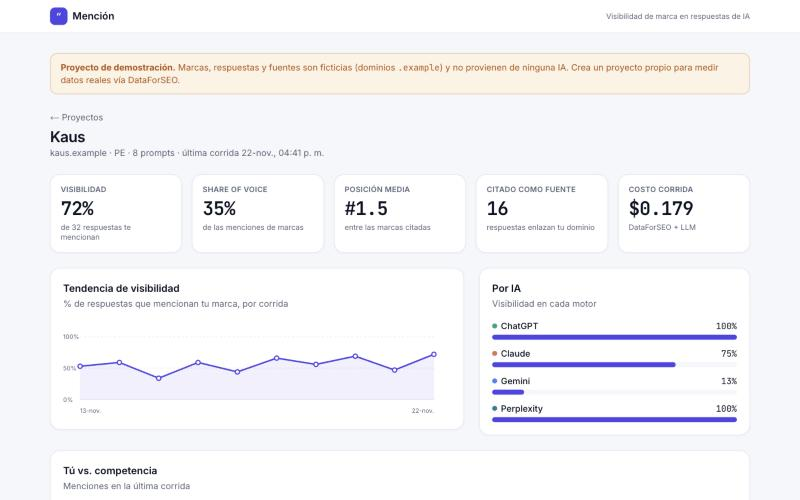
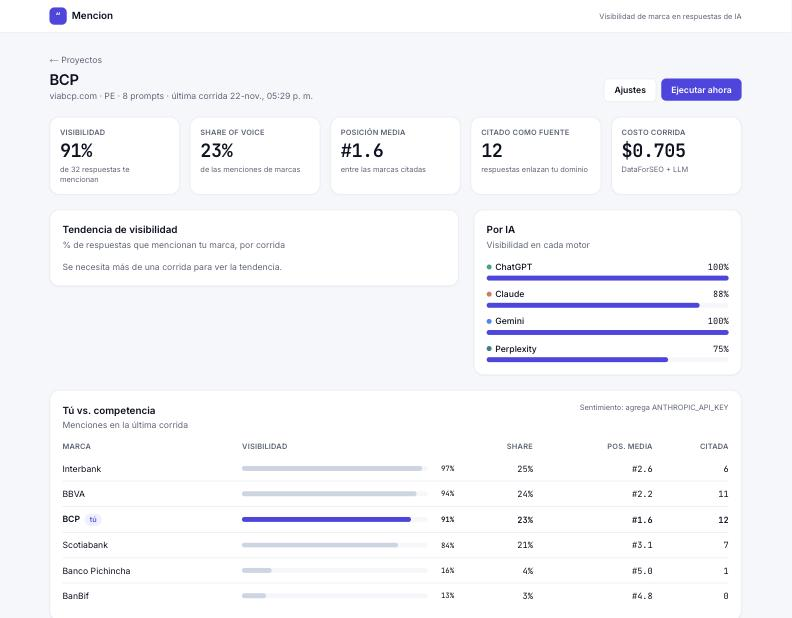
Dominio menciones.org, ejemplo con bancos y fuentes sin www duplicado
- Dominio menciones.org en sitio, README y guía de despliegue
- Captura con medición real: BCP frente a Interbank, BBVA, Scotiabank, BanBif y Pichincha
- Demo y placeholders sin Kaus (marca ficticia Nutrilia en la demo opcional)
- Dominios de fuentes normalizados sin www

diff --git a/src/components/ProjectForm.tsx b/src/components/ProjectForm.tsx
@@ -23,15 +23,15 @@ export function ProjectForm({
       {project ? <input type="hidden" name="id" value={project.id} /> : null}
       <label className="label">
         Marca
-        <input name="name" required maxLength={80} defaultValue={project?.name} placeholder="Kaus" className="input mt-1 font-normal normal-case tracking-normal" />
+        <input name="name" required maxLength={80} defaultValue={project?.name} placeholder="BCP" className="input mt-1 font-normal normal-case tracking-normal" />
       </label>
       <label className="label">
         Dominio
-        <input name="domain" maxLength={120} defaultValue={project?.domain} placeholder="kaus.pe" className="input mt-1 font-normal normal-case tracking-normal" />
+        <input name="domain" maxLength={120} defaultValue={project?.domain} placeholder="viabcp.com" className="input mt-1 font-normal normal-case tracking-normal" />
       </label>
       <label className="label sm:col-span-2">
         Otras formas de escribir la marca (separadas por coma)
-        <input name="aliases" defaultValue={project ? parseJson<string[]>(project.aliases, []).join(", ") : ""} placeholder="Kaus App, Kaus Coach" className="input mt-1 font-normal normal-case tracking-normal" />
+        <input name="aliases" defaultValue={project ? parseJson<string[]>(project.aliases, []).join(", ") : ""} placeholder="Banco de Crédito del Perú, Banco de Credito" className="input mt-1 font-normal normal-case tracking-normal" />
       </label>
       <label className="label">
         País de búsqueda
@@ -49,11 +49,11 @@ export function ProjectForm({
       </label>
       <label className="label sm:col-span-2">
         Competidores — uno por línea: <span className="font-mono normal-case">Marca | dominio.com | alias</span>
-        <textarea name="competitors" rows={4} defaultValue={project ? competitorLines(competitorsOf(project)) : ""} placeholder={"MyFitnessPal | myfitnesspal.com\nYazio | yazio.com"} className="input mt-1 font-mono text-xs font-normal normal-case tracking-normal" />
+        <textarea name="competitors" rows={4} defaultValue={project ? competitorLines(competitorsOf(project)) : ""} placeholder={"Interbank | interbank.pe\nBBVA | bbva.pe | BBVA Perú"} className="input mt-1 font-mono text-xs font-normal normal-case tracking-normal" />
       </label>
       <label className="label sm:col-span-2">
         Prompts a seguir — uno por línea (lo que tus clientes le preguntan a la IA)
-        <textarea name="prompts" rows={7} required defaultValue={prompts?.filter((p) => p.active).map((p) => p.text).join("\n")} placeholder={"¿Cuál es la mejor app para bajar de peso en Perú?\nApps con coach de nutrición con IA en español"} className="input mt-1 text-sm font-normal normal-case tracking-normal" />
+        <textarea name="prompts" rows={7} required defaultValue={prompts?.filter((p) => p.active).map((p) => p.text).join("\n")} placeholder={"¿Cuál es el mejor banco del Perú?\n¿Qué banco tiene la mejor app móvil en Perú?"} className="input mt-1 text-sm font-normal normal-case tracking-normal" />
       </label>
       <div className="flex items-center gap-3 sm:col-span-2">
         <button className="btn-primary">{submitLabel}</button>

diff --git a/prisma/seed.ts b/prisma/seed.ts
@@ -18,7 +18,7 @@ let seed = 42;
 const rand = () => ((seed = (seed * 1664525 + 1013904223) % 4294967296) / 4294967296);
 const pick = <T,>(xs: T[]) => xs[Math.floor(rand() * xs.length)];
 
-const own: Competitor = { name: "Kaus", domain: "kaus.example", aliases: ["Kaus App"] };
+const own: Competitor = { name: "Nutrilia", domain: "nutrilia.example", aliases: ["Nutrilia App"] };
 const competitors: Competitor[] = [
   { name: "Balanzia", domain: "balanzia.example", aliases: [] },
   { name: "FitLima", domain: "fitlima.example", aliases: ["Fit Lima"] },
@@ -38,10 +38,10 @@ const sourcePool = ["blog-salud.example", "revista-nutricion.example", "foro-fit
 
 // Probabilidad de que cada motor mencione cada marca (para que la demo cuente una historia)
 const bias: Record<string, Record<string, number>> = {
-  chatgpt: { Kaus: 0.55, Balanzia: 0.7, FitLima: 0.45, Vitalo: 0.3 },
-  claude: { Kaus: 0.4, Balanzia: 0.6, FitLima: 0.35, Vitalo: 0.25 },
-  gemini: { Kaus: 0.3, Balanzia: 0.75, FitLima: 0.5, Vitalo: 0.4 },
-  perplexity: { Kaus: 0.65, Balanzia: 0.55, FitLima: 0.3, Vitalo: 0.2 },
+  chatgpt: { Nutrilia: 0.55, Balanzia: 0.7, FitLima: 0.45, Vitalo: 0.3 },
+  claude: { Nutrilia: 0.4, Balanzia: 0.6, FitLima: 0.35, Vitalo: 0.25 },
+  gemini: { Nutrilia: 0.3, Balanzia: 0.75, FitLima: 0.5, Vitalo: 0.4 },
+  perplexity: { Nutrilia: 0.65, Balanzia: 0.55, FitLima: 0.3, Vitalo: 0.2 },
 };
 const phrases = {
   positive: ["destaca por su coach con IA que adapta el plan a comida local", "es muy recomendada por usuarios que buscan acompañamiento diario", "ofrece un seguimiento cercano y fácil de usar"],

diff --git a/src/lib/stats.ts b/src/lib/stats.ts
@@ -70,7 +70,7 @@ export async function projectDashboard(projectId: string) {
 
   // Dominios más citados como fuente
   const domainCount = new Map<string, number>();
-  for (const r of ok) for (const d of new Set(r.sources.map((s) => s.domain).filter(Boolean))) domainCount.set(d, (domainCount.get(d) ?? 0) + 1);
+  for (const r of ok) for (const d of new Set(r.sources.map((s) => s.domain.replace(/^www\./, "")).filter(Boolean))) domainCount.set(d, (domainCount.get(d) ?? 0) + 1);
   const topDomains = [...domainCount.entries()].sort((a, b) => b[1] - a[1]).slice(0, 10).map(([domain, count]) => ({ domain, count, share: pct(count, ok.length) }));
 
   // Tendencia: visibilidad propia por corrida terminada

diff --git a/src/app/layout.tsx b/src/app/layout.tsx
@@ -7,7 +7,7 @@ const inter = Inter({ subsets: ["latin"], variable: "--font-inter", display: "sw
 const mono = JetBrains_Mono({ subsets: ["latin"], variable: "--font-mono-jb", display: "swap" });
 
 export const metadata: Metadata = {
-  metadataBase: new URL(process.env.SITE_URL ?? "https://mencion.org"),
+  metadataBase: new URL(process.env.SITE_URL ?? "https://menciones.org"),
   title: { default: "Mencion — visibilidad de tu marca en las IAs", template: "%s · Mencion" },
   description: "Mide cuántas veces ChatGPT, Claude, Gemini y Perplexity mencionan tu marca frente a tu competencia.",
   robots: { index: false, follow: false },

diff --git a/src/lib/analysis.ts b/src/lib/analysis.ts
@@ -43,7 +43,7 @@ export function detectMentions(text: string, sources: Source[], own: Competitor,
   const found = brands.map((b) => {
     const idx = firstIndex(hay, [b.name, ...b.aliases, b.domain].filter(Boolean));
     const d = norm(b.domain);
-    const cited = Boolean(d) && sources.some((s) => s.domain === d || s.domain.endsWith(`.${d}`));
+    const cited = Boolean(d) && sources.some((s) => { const sd = s.domain.replace(/^www\./, ""); return sd === d || sd.endsWith(`.${d}`); });
     return { b, idx, cited };
   });
   const order = found.filter((f) => f.idx >= 0).sort((a, z) => a.idx - z.idx);

diff --git a/src/lib/dataforseo.ts b/src/lib/dataforseo.ts
@@ -116,7 +116,7 @@ export async function askEngine(
       engine,
       model: String(result.model ?? "chatgpt"),
       text: String(result.markdown ?? ""),
-      sources: dedupe(raw.filter((s) => s.url).map((s) => ({ title: s.title ?? "", url: s.url!, domain: s.domain || domainOf(s.url!) }))),
+      sources: dedupe(raw.filter((s) => s.url).map((s) => ({ title: s.title ?? "", url: s.url!, domain: (s.domain || domainOf(s.url!)).replace(/^www\./, "") }))),
       costUsd: cost,
     };
   }

diff --git a/docs/DEPLOY.md b/docs/DEPLOY.md
@@ -1,6 +1,6 @@
 # Poner Mencion en funcionamiento
 
-Hay tres etapas: 1) probar con datos reales en tu computadora, 2) publicar la app en mencion.org y 3) automatizar la
+Hay tres etapas: 1) probar con datos reales en tu computadora, 2) publicar la app en menciones.org y 3) automatizar la
 medición diaria.
 
 ---
@@ -41,7 +41,7 @@ npm run dev
 
 ---
 
-## 2. Publicar en mencion.org (Railway)
+## 2. Publicar en menciones.org (Railway)
 
 La app necesita un servidor Node que siga encendido, porque las corridas trabajan en segundo plano, y un disco para la
 base SQLite. Railway ofrece las dos cosas sin cambiar código. Vercel no sirve tal como está: es serverless y corta
@@ -59,7 +59,7 @@ las corridas a la mitad.
 | `DATAFORSEO_LOGIN` / `DATAFORSEO_PASSWORD` | tus credenciales de API |
 | `APP_PASSWORD` | una contraseña larga; **obligatoria**, sin ella cualquiera gasta tus créditos |
 | `CRON_SECRET` | resultado de `openssl rand -hex 24` |
-| `SITE_URL` | `https://mencion.org` |
+| `SITE_URL` | `https://menciones.org` |
 | `MODEL_CLAUDE`, `MODEL_GEMINI`, `MODEL_PERPLEXITY` | los mismos que validaste en el paso 1.3 |
 | `ANTHROPIC_API_KEY` | opcional |
 | `SHOW_DEMO_DATA` | `false` (o `true` si cargas la demo) |
@@ -71,12 +71,12 @@ volumen y levanta la app en el puerto que asigna Railway.
 En **Settings → Networking → Generate Domain** obtienes una URL `*.up.railway.app`. Al abrirla, el navegador te pide
 usuario y contraseña: el usuario puede ser cualquiera y la contraseña es `APP_PASSWORD`.
 
-### 2.4 Conectar mencion.org
+### 2.4 Conectar menciones.org
 1. Si todavía no tienes el dominio, cómpralo (Cloudflare, Namecheap, Porkbun, etc.).
-2. En Railway: **Settings → Networking → Custom Domain →** `mencion.org`. Railway te muestra un registro DNS.
-3. Crea ese registro en tu proveedor de DNS. Para el dominio raíz (`mencion.org`, sin `www`) el proveedor debe
+2. En Railway: **Settings → Networking → Custom Domain →** `menciones.org`. Railway te muestra un registro DNS.
+3. Crea ese registro en tu proveedor de DNS. Para el dominio raíz (`menciones.org`, sin `www`) el proveedor debe
    aceptar CNAME en la raíz (lo llaman "CNAME flattening" o "ALIAS"); Cloudflare lo hace gratis. Agrega también
-   `www.mencion.org` si lo quieres.
+   `www.menciones.org` si lo quieres.
 4. Espera a que Railway marque el dominio como verificado. El certificado HTTPS es automático.
 
 ---
@@ -86,7 +86,7 @@ usuario y contraseña: el usuario puede ser cualquiera y la contraseña es `APP_
 El repo trae `.github/workflows/corrida-diaria.yml`, que llama a `/api/cron` todos los días a las 7:00 (hora de Perú).
 
 1. En GitHub: **mencion → Settings → Secrets and variables → Actions → New repository secret**:
-   - `MENCION_URL` = `https://mencion.org`
+   - `MENCION_URL` = `https://menciones.org`
    - `CRON_SECRET` = el mismo valor que pusiste en Railway
 2. Pruébalo en **Actions → Corrida diaria → Run workflow**. Debe responder `{"started":[...]}`.
 

diff --git a/README.md b/README.md
@@ -4,9 +4,9 @@
 tus clientes y mide en cuántas respuestas apareces, en qué posición, con qué tono y qué fuentes citan, frente a tu
 competencia.
 
-🌐 [mencion.org](https://mencion.org)
+🌐 [menciones.org](https://menciones.org)
 
-![Dashboard de Mencion (proyecto demo con datos ficticios)](docs/dashboard.jpg)
+![Dashboard de Mencion: BCP frente a los principales bancos del Perú (medición real, 22-nov-2026)](docs/dashboard.jpg)
 
 ## Qué mide
 
